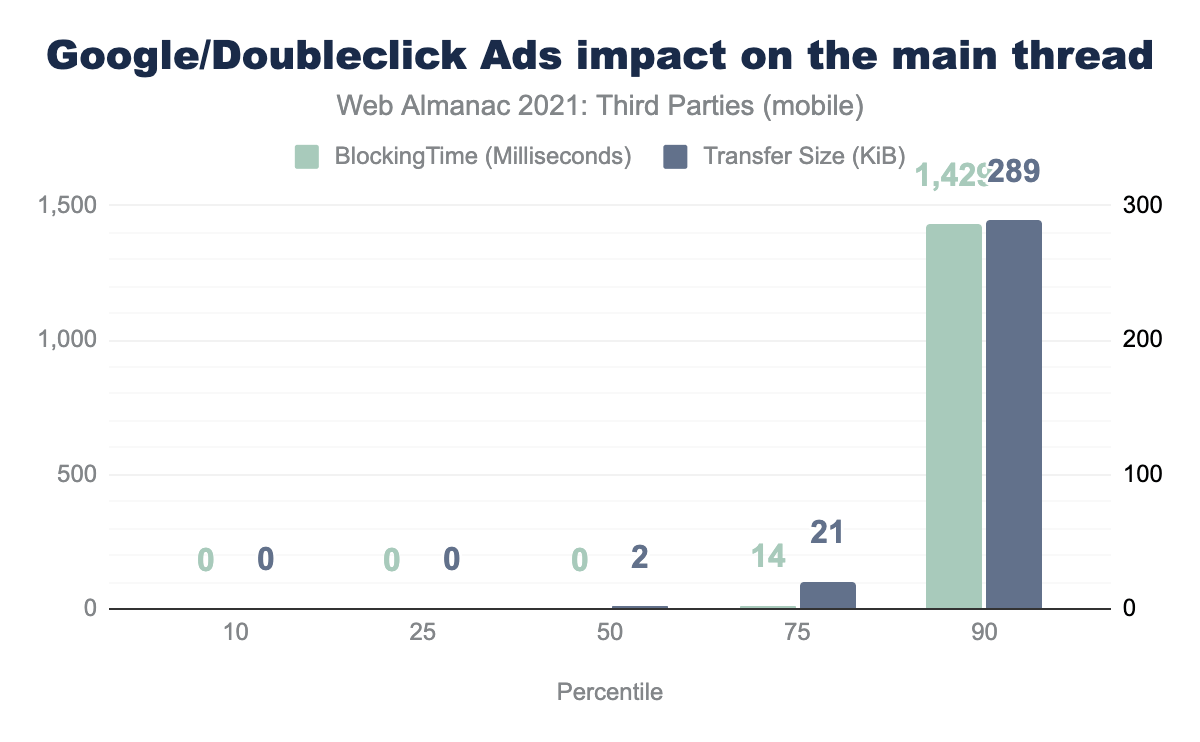
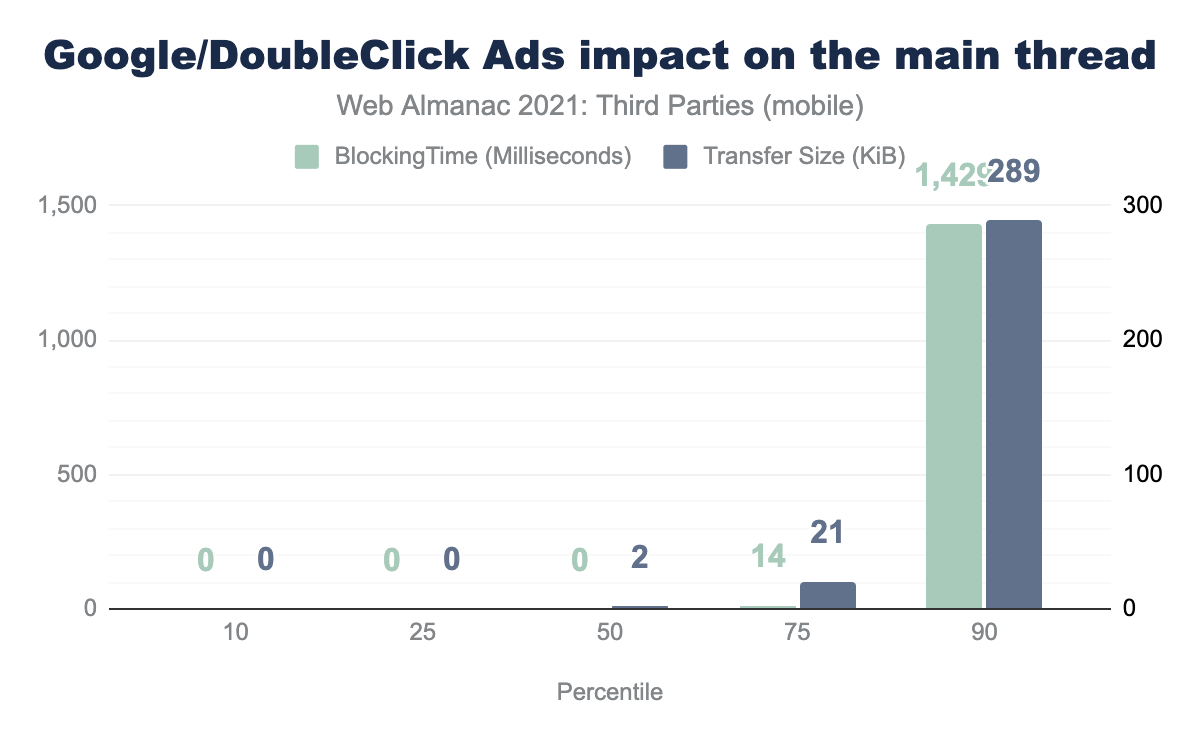
Spell check

Changed region(s): [[0.0308, 0.031, 0.9558, 0.093]]

diff --git a/src/content/en/2021/third-parties.md b/src/content/en/2021/third-parties.md
@@ -24,9 +24,9 @@ unedited: true
 
 Ah third parties - the solution to so many problems on the web… and cause of so many others! The web has fundamentally always been about interconnectivity and sharing. Using third-party content on a website is a natural extension of that and was first set into motion with the introduction of the [`<img>` element in HTML 2.0](https://www.w3.org/MarkUp/html-spec/html-spec_5.html#SEC5.10), we have been able to hyperlink external content straight into our documents. This has only grown with the introduction of [CSS](./css), and [JavaScript](./javascript) allowing part (or all!) of the page and site to be changed completely just by including a seemingly simple `<link>` or `<script>` element.
 
-Third parties provide a never ending collection of images, videos, fonts, tools, libraries, widgets, trackers, ads and anything else you can imagine to embed into our web pages. This enables even the most non-technical to be able to create and publish content to the web. Without third parties, the web would likely be a very boring, text-based, academic medium instead of the rich, immersive, complex platform that is so integral to the lives of many of us today.
+Third parties provide a never-ending collection of images, videos, fonts, tools, libraries, widgets, trackers, ads and anything else you can imagine to embed into our web pages. This enables even the most non-technical to be able to create and publish content to the web. Without third parties, the web would likely be a very boring, text-based, academic medium instead of the rich, immersive, complex platform that is so integral to the lives of many of us today.
 
-However, there is a dark side to using third party content on the web. An innocuous include of an image, or a helpful library, opens the floodgates of all sorts of [performance](./performance), [privacy](./performance), and [security](./security) implications that many do not consider fully. Speak to any professionals in those industries and they will lament the use of third-party content making their lives more difficult. This is surely only going to grow with performance getting extra attention through the likes of the [Core Web Vitals initiative from Google](https://web.dev/vitals/), and increased focus on privacy from governments and individuals alike, and the ever present threat of exploitable vulnerabilities and malicious threats inherent to the web.
+However, there is a dark side to using third party content on the web. An innocuous include of an image, or a helpful library, opens the floodgates of all sorts of [performance](./performance), [privacy](./performance), and [security](./security) implications that many do not consider fully. Speak to any professionals in those industries and they will lament the use of third-party content making their lives more difficult. This is surely only going to grow with performance getting extra attention through the likes of the [Core Web Vitals initiative from Google](https://web.dev/vitals/), and increased focus on privacy from governments and individuals alike, and the ever-present threat of exploitable vulnerabilities and malicious threats inherent to the web.
 
 In this chapter we're going to have a look at the state of third parties on the web: how much are we using them, what are we using them for, has our use changed over the last year given in particular the three concerns listed above? These are questions I'm looking to answer here.
 
@@ -53,7 +53,7 @@ Similarly, first-party content served from a third-party domain is counted as th
 
 ### Third-party categories
 
-This year we will, again, be drawing heavily on the [third-party-web repository](https://github.com/patrickhulce/third-party-web/blob/8afa2d8cadddec8f0db39e7d715c07e85fb0f8ec/data/entities.json5) from [Patrick Hulce](https://twitter.com/patrickhulce) to help us identify and categorise third parties. This repository categorises commonly used third-party URLs into the following categories:
+This year we will, again, be drawing heavily on the [third-party-web repository](https://github.com/patrickhulce/third-party-web/blob/8afa2d8cadddec8f0db39e7d715c07e85fb0f8ec/data/entities.json5) from [Patrick Hulce](https://twitter.com/patrickhulce) to help us identify and categorize third parties. This repository categorizes commonly used third-party URLs into the following categories:
 - **Ad** - display and measurement of advertisements
 - **Analytics** - tracking site visitor behavior
 - **CDN** - providers that host public shared utilities or private content of their users
@@ -71,7 +71,7 @@ This year we will, again, be drawing heavily on the [third-party-web repository]
 
 One difference that we have taken this year is to remove the Hosting category from our data this year. If you happen to use Wordpress.com for your blog, or Shopify for your ecommerce platform, then we're going to ignore other requests for those domains by that site as not truly "third-party", as they are in many ways part of hosting on those platforms. Similar to the way we noted above, we do not consider CDNs in front of a page to be "third party".
 
-In reality this made very little difference to the numbers  but we feel it's a more accurate reflection of what we should consider "third party" by above definition, and also aligns more closely with how the other chapters use this term.
+In reality this made very little difference to the numbers, but we feel it's a more accurate reflection of what we should consider "third party" by above definition, and also aligns more closely with how the other chapters use this term.
 
 ### Caveats
 
@@ -84,7 +84,7 @@ Learn more about our [methodology](./methodology).
 
 ## Prevalence
 
-So how much are third parties used? Well the answer is a lot!
+So how much are third parties used? Well, the answer is a lot!
 
 {{ figure_markup(
   caption="Percentage of mobile sites using at least one third-party resource.",
@@ -107,7 +107,7 @@ chart_url="https://docs.google.com/spreadsheets/d/e/2PACX-1vTkT-CF5-NB7Oatd6XZq_
   )
 }}
 
-Rerunning the last three Almanac years with the new, stricter definition, we see in the chart above that our usage of third -parties on our website has grown slightly on last year by 0.2% on desktop and 0.4% on mobile.
+Rerunning the last three Almanac years with the new, stricter definition, we see in the chart above that our usage of third parties on our website has grown slightly on last year by 0.2% on desktop and 0.4% on mobile.
 
 45.85% of requests on mobile and 45.09% of requests on desktop are third-party requests and this is similar to last year.
 
@@ -122,7 +122,7 @@ Rerunning the last three Almanac years with the new, stricter definition, we see
 
 It would appear that the impact of privacy-preserving regulations like [GDPR](https://en.wikipedia.org/wiki/General_Data_Protection_Regulation) and [CCPA](https://en.wikipedia.org/wiki/California_Consumer_Privacy_Act) are not dampening our appetite for third-party content. Though it should be remembered that our websites crawl from US locations and so may not be served GDPR-compliant websites.
 
-So we know nearly all sites use third parties, but how many do they use?
+So, we know nearly all sites use third parties, but how many do they use?
 
 {{ figure_markup(
   image="third-parties-number-of-third-parties-per-website.png",
@@ -152,7 +152,7 @@ chart_url="https://docs.google.com/spreadsheets/d/e/2PACX-1vTkT-CF5-NB7Oatd6XZq_
   )
 }}
 
-This year we have access to the [CrUX "rank"](https://developers.google.com/web/updates/2021/03/crux-rank-magnitude) for each website—that is a popularity assignment for each site (e.g. top 1,000 most used site, top 10,000 most used site...etc.). Slicing the data by that shows that there is a slight decrease in third-party usage for the less popular websites but it never dips below 93.28%, again reiterating that pretty much all websites love to include at least one third party.
+This year we have access to the [CrUX "rank"](https://developers.google.com/web/updates/2021/03/crux-rank-magnitude) for each website—that is a popularity assignment for each site (e.g. top 1,000 most used site, top 10,000 most used site...etc.). Slicing the data by that shows that there is a slight decrease in third-party usage for the less popular websites, but it never dips below 93.28%, again reiterating that pretty much all websites love to include at least one third party.
 
 However, what does change is the number of third parties used by website:
 
@@ -166,11 +166,11 @@ chart_url="https://docs.google.com/spreadsheets/d/e/2PACX-1vTkT-CF5-NB7Oatd6XZq_
   )
 }}
 
-Looking at the median (50th percentile) statistics, we see a marked decline as we go up the rankings, with the most popular websites using twice as many third parties as the whole data set. We'll see in a moment that that is driven almost entirely by ads. It is perhaps unsurprising that these are much more prevalent on more popular websites, with more eyeballs to monetise.
+Looking at the median (50th percentile) statistics, we see a marked decline as we go up the rankings, with the most popular websites using twice as many third parties as the whole data set. We'll see in a moment that that is driven almost entirely by ads. It is perhaps unsurprising that these are much more prevalent on more popular websites, with more eyeballs to monetize.
 
-### Third-party type
+## Third-party type
 
-So we know we're using third parties a lot, but what are we using them for? Look at the categories of each third-party request we see the following:
+Our analysis shows we're using third parties a lot, but what are we using them for? Look at the categories of each third-party request we see the following:
 
 
 {{ figure_markup(
@@ -183,9 +183,9 @@ chart_url="https://docs.google.com/spreadsheets/d/e/2PACX-1vTkT-CF5-NB7Oatd6XZq_
   )
 }}
 
-Ads are the most common requests, followed by "unknown"—a collection of various uncategorised or lesser used sites—then CDN, social and utility and then analytics. So while there are some categories more popular than others, what's perhaps the bigger takeaway here is how varied third-party usage is. They really are used for all sorts of reasons rather than one or two use cases dominating all the others.
+Ads are the most common requests, followed by "unknown"—a collection of various uncategorized or lesser used sites—then CDN, social and utility and then analytics. So, while there are some categories more popular than others, what's perhaps the bigger takeaway here is how varied third-party usage is. They really are used for all sorts of reasons rather than one or two use cases dominating all the others.
 
-#### Third-party requests by type and rank
+### Third-party requests by type and rank
 
 {{ figure_markup(
   image="third-parties-medium-third-party-requests-by-type-and-rank-on-mobile.png",
@@ -199,9 +199,9 @@ chart_url="https://docs.google.com/spreadsheets/d/e/2PACX-1vTkT-CF5-NB7Oatd6XZq_
 
 Splitting the requests by rank and category, we see the reason for the larger number of requests discussed previously.  Ads are much more heavily used on the more popular sites.
 
-Note this chart shows the medium number of requests for each category, by rank, but not every category is used on every page, explaining why the totals per domain are much higher then the number of requests from the previous chart.
+Note this chart shows the medium number of requests for each category, by rank, but not every category is used on every page, explaining why the totals per domain are much higher than the number of requests from the previous chart.
 
-### Content types
+## Content types
 
 Related to the categories, let's see what type of content we're getting back from all those third-party requests.
 
@@ -215,7 +215,7 @@ chart_url="https://docs.google.com/spreadsheets/d/e/2PACX-1vTkT-CF5-NB7Oatd6XZq_
   )
 }}
 
-JavaScript, images, and HTML mostly it seems. To be honest there aren't many surprises here. JavaScript is used by most third parties to add functionality (whether that be in ads, trackers, libraries, or whatever). Similarly the high usage of images is to be expected, as they will include the 1 pixel blank images so beloved of tracking solutions.
+JavaScript, images, and HTML mostly it seems. To be honest there aren't many surprises here. JavaScript is used by most third parties to add functionality (whether that be in ads, trackers, libraries, or whatever). Similarly, the high usage of images is to be expected, as they will include the 1-pixel blank images so beloved of tracking solutions.
 
 The high usage of HTML surprised me initially (surely documents would be the prevalent form of HTML and they would be first-party requests?), but investigation showed them mostly to be iframes which makes much more sense as they are often used to house ads, or other widgets (e.g. YouTube serves an HTML document in an iframe including the player, rather than just the video itself).
 
@@ -231,7 +231,7 @@ chart_url="https://docs.google.com/spreadsheets/d/e/2PACX-1vTkT-CF5-NB7Oatd6XZq_
   )
 }}
 
-Splitting the content types by the type of third party, we see the prevalence of those three main types (scripts, images and HTML) across most types, though the worrying amount of JavaScript (even for video type!) is already apparent. The above chart is for mobile and the desktop picture is very similar but is not shown for brevity reasons.
+Splitting the content types by the type of third party, we see the prevalence of those three main types (scripts, images and HTML) across most types, though the worrying amount of JavaScript (even for video type!) is already apparent. The above chart is for mobile, but the desktop picture is very similar.
 
 {{ figure_markup(
   image="third-parties-requests-by-content-type-and-category-on-mobile.png",
@@ -243,11 +243,13 @@ chart_url="https://docs.google.com/spreadsheets/d/e/2PACX-1vTkT-CF5-NB7Oatd6XZq_
   )
 }}
 
-When looking by bytes, rather than by requests, the amount of JavaScript is even more worrying. Again I've shown mobile here, but there are no major differences for desktop.
+When looking by bytes, rather than by requests, the amount of JavaScript is even more worrying. Again, I've shown mobile here, but there are no major differences for desktop.
 
-To quote [Addy Osmani](https://twitter.com/addyosmani) (twice!) in the same sentence from his ["Cost of JavaScript"](https://medium.com/@addyosmani/the-cost-of-javascript-in-2018-7d8950fbb5d4) post, "byte-for-byte, JavaScript is still the most expensive resource we send", and "a 200 KB script and a 200 KB image have very different costs". Some categories like analytics, constent-provider, tag-manager are pretty much all JavaScript, while others like ad, customer-success, are not far behind. We'll return to the performance impact of using third-party resources later - often caused by costly use of JavaScript.
-Third-Party Domains
-So who are we loading all these third-party requests from? Most of these names won't be surprising, but the prevalence of one name just reiterates the dominance that company has across a number of different categories:
+To quote [Addy Osmani](https://twitter.com/addyosmani) (twice!) in the same sentence from his ["Cost of JavaScript"](https://medium.com/@addyosmani/the-cost-of-javascript-in-2018-7d8950fbb5d4) post, "byte-for-byte, JavaScript is still the most expensive resource we send", and "a 200 KB script and a 200 KB image have very different costs". Some categories like analytics, consent-provider, tag-manager are pretty much all JavaScript, while others like ad, customer-success, are not far behind. We'll return to the performance impact of using third-party resources later - often caused by costly use of JavaScript.
+
+## Third-Party Domains
+
+Who are we loading all these third-party requests from? Most of these names won't be surprising, but the prevalence of one name just reiterates the dominance that company has across a number of different categories:
 
 {{ figure_markup(
   image="third-parties-top-15-by-usage.png",
@@ -263,19 +265,17 @@ chart_url="https://docs.google.com/spreadsheets/d/e/2PACX-1vTkT-CF5-NB7Oatd6XZq_
 
 Google takes 8 of the top 15 most used third parties — including the top six spots! — and has no one even close. Google are market leaders in Analytics, Fonts, Ads, Accounts, Tag Managers, and Video to name but a few. A staggering 62.69% of mobile websites use Google Analytics, and almost as many use Google Fonts, with Ads, Accounts and Tag Manager usage not far behind in the 42% - 49 % range.
 
-The first non-Google entity is Facebook with a comparatively low usage of 29.18%. This is followed by CloudFlare's CDN fronting popular libraries and other resources (despite being listed as amp.cloudflare.com it also includes the much larger cdnjs.cloudflare.com).
+The first non-Google entity is Facebook with a comparatively low usage of 29.18%. This is followed by Cloudflare's CDN fronting popular libraries and other resources (despite being listed as amp.cloudflare.com it also includes the much larger cdnjs.cloudflare.com).
 
 After this we're back to Google with YouTube, and Maps two spots later. The remaining spots are filled with CDNs for other popular libraries and tools.
 
-## Performance impact of third-parties
+## Performance impact of third parties
 
-It's difficult to definitely explain the performance impact of third parties on websites. There is no clear cut answer as to whether using a third party is good or bad.
-
-While there are certainly impacts on needlessly loading up your website with every third-party tool, widget, tracker and whatever else you can think of, that's also true of first-party content. Bloat is bad, wherever it comes from and blaming third parties for making it too easy for websites to add, is perhaps pointing the finger at the wrong party here!
+It's difficult to definitely explain the performance impact of third parties on websites. There is no clear-cut answer as to whether using a third party is good or bad. While there are certainly impacts on needlessly loading up your website with every third-party tool, widget, tracker and whatever else you can think of, that's also true of first-party content. Bloat is bad, wherever it comes from and blaming third parties for making it too easy for websites to add, is perhaps pointing the finger at the wrong party here!
 
 There is a definite cost to connecting to another domain, even though most third parties will be using a globally distributed, high performance CDN and many web performance advocates (including myself!) recommend self-hosting where possible to avoid this penalty. This is particularly relevant now that all the major browsers have moved away from sharing caches between pages, so the claim that once one site has downloaded that resource, others can benefit from it is no longer true. Though this was a questionable claim even in the past in this author's opinion given the number of versions of libraries, and limitations of the HTTP cache.
 
-Saying that, rarely is life as definitive as we would like and, in some cases self-hosting may actually cost performance. I've [written before how the question on whether to self-host Google Fonts](https://www.tunetheweb.com/blog/should-you-self-host-google-fonts/) is not as clear cut as it might seem and requires a degree of expertise to ensure you are replicating all that Google Fonts does for you in the performance front. Similarly, image CDNs can optimise media better than most and, more importantly, can do this automatically without the need of manual steps that will inevitably be skipped or done incorrectly on occasion.
+Saying that, rarely is life as definitive as we would like and, in some cases self-hosting may actually cost performance. I've [written before how the question on whether to self-host Google Fonts](https://www.tunetheweb.com/blog/should-you-self-host-google-fonts/) is not as clear cut as it might seem and requires a degree of expertise to ensure you are replicating all that Google Fonts does for you in the performance front. Similarly, image CDNs can optimize media better than most and, more importantly, can do this automatically without the need of manual steps that will inevitably be skipped or done incorrectly on occasion.
 
 To try to investigate the performance impact of third parties, we will instead look at some of the most popular third-party embeds as some have a bad name in web performance circles so let's see if the bad reputation is really deserved. To do that we'll be making use of two Lighthouse audits: [Eliminate render blocking resources](https://web.dev/render-blocking-resources/) and [Reduce the impact of third-party code](https://web.dev/third-party-summary/), based on some [similar research](https://docs.google.com/spreadsheets/d/1Td-4qFjuBzxp8af_if5iBC0Lkqm_OROb7_2OcbxrU_g/edit?usp=sharing&resourcekey=0-ZCfve5cngWxF0-sv5pLRzg) by [Houssein Djirdeh](https://twitter.com/hdjirdeh).
 
@@ -362,7 +362,7 @@ chart_url="https://docs.google.com/spreadsheets/d/e/2PACX-1vTkT-CF5-NB7Oatd6XZq_
   )
 }}
 
-Google Analytics is pretty good, so obviously a lot of work has gone into optimising this, given all that it tracks.
+Google Analytics is pretty good, so obviously a lot of work has gone into optimizing this, given all that it tracks.
 
 #### Google/Doubleclick Ads
 
@@ -376,7 +376,7 @@ chart_url="https://docs.google.com/spreadsheets/d/e/2PACX-1vTkT-CF5-NB7Oatd6XZq_
   )
 }}
 
-Google Ads was doing so well, until we hit the 90th percentile, when it got blown off the chart. Again a reminder that this means 10% of websites have worse numbers than these.
+Google Ads was doing so well, until we hit the 90th percentile, when it got blown off the chart. Again, a reminder that this means 10% of websites have worse numbers than these.
 
 #### Google Tag Manager
 
@@ -439,14 +439,14 @@ Twitter as a third-party can be used in one of two ways: as a retargeting advert
 
 While some of the above examples fare better or worse, it must be remembered that it's the cumulative effect of these which really impact the performance of a website. It's rare for websites to only use one of these so add together Google Analytics, GTM loading Facebook and Twitter Tracking, on a page with a Map and an embedded Tweet and you'll begin to understand why your phone sometimes feels too hot to handle, or your PC fan starts going into overdrive just from surfing the web!
 
-All this shows why the Google Developers recommend [reducing the impact of embeds](https://web.dev/embed-best-practices/) (mostly their own ironically!), through the use of document ordering, lazy loading, facades, and other techniques. However it's really quite infuriating that some of these are not the default and that advanced techniques like these must fall on the responsibility of the website owner. The third parties highlighted here really do have the resources, and technical know-how to reduce the impact of using their products for everyone by default but often choose not to.
+All this shows why the Google Developers recommend [reducing the impact of embeds](https://web.dev/embed-best-practices/) (mostly their own ironically!), through the use of document ordering, lazy loading, facades, and other techniques. However, it's really quite infuriating that some of these are not the default and that advanced techniques like these must fall on the responsibility of the website owner. The third parties highlighted here really do have the resources, and technical know-how to reduce the impact of using their products for everyone by default but often choose not to.
 
-Hopefully highlighting some of these well-known examples will cause readers to investigate the impact of third-party embeds on their own sites and ask themselves if they really are all worth it? Perhaps if we make this subject more important to the third parties they will prioritise performance.
+Hopefully highlighting some of these well-known examples will cause readers to investigate the impact of third-party embeds on their own sites and ask themselves if they really are all worth it? Perhaps if we make this subject more important to the third parties, they will prioritize performance.
 
 
 ### Timing-Allow-Origin header prevalence
 
-Last year we looked at the [prevalence of the `timing-allow-origin` header](./third-parties#timing-allow-origin-prevalence), which allows the [Resource Timing API](https://developer.mozilla.org/en-US/docs/Web/API/Resource_Timing_API/Using_the_Resource_Timing_API) to be used on third-party requests. Without this HTTP header, the information available to on-page performance monitoring tools for third-party requests is restricted for security and privacy reasons. However for static requests, third parties which allow this header give a greater transparency into the performance timings of their resources.
+Last year we looked at the [prevalence of the `timing-allow-origin` header](./third-parties#timing-allow-origin-prevalence), which allows the [Resource Timing API](https://developer.mozilla.org/en-US/docs/Web/API/Resource_Timing_API/Using_the_Resource_Timing_API) to be used on third-party requests. Without this HTTP header, the information available to on-page performance monitoring tools for third-party requests is restricted for security and privacy reasons. However, for static requests, third parties which allow this header give a greater transparency into the performance timings of their resources.
 
 {{ figure_markup(
   image="third-parties-timing-allow-origin-header-usage.png",
